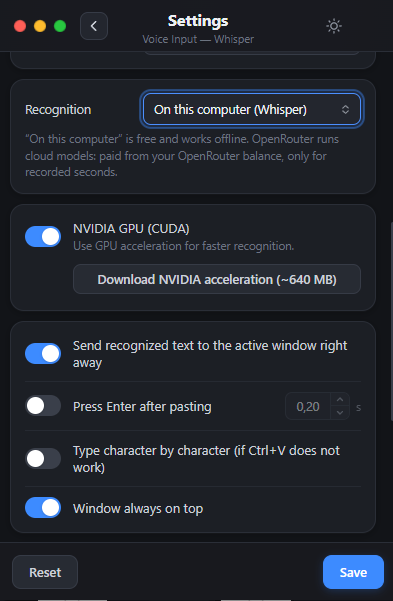
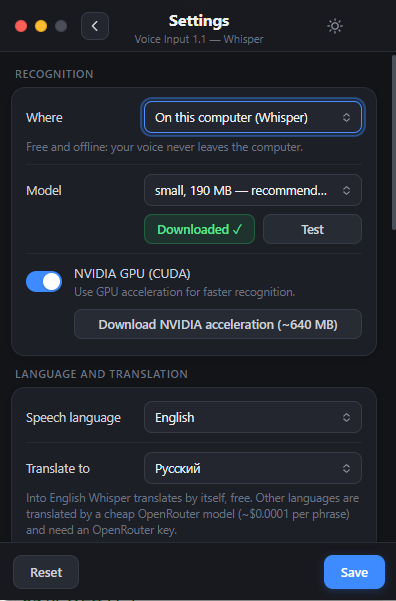
Версия 1.2: переводчик; новые скриншоты; описание и сайт

diff --git a/docs/ru/index.html b/docs/ru/index.html
@@ -3,9 +3,9 @@
 <head>
 <meta charset="utf-8">
 <meta name="viewport" content="width=device-width, initial-scale=1">
-<title>VoiceDictate — бесплатный голосовой ввод для Windows 10 и 11 (Whisper, OpenRouter)</title>
-<meta name="description" content="Бесплатный голосовой ввод для Windows 10/11: нажали F3, сказали — текст вставился в любую программу. Распознавание Whisper без интернета или облачные модели OpenRouter от $0,012 за час. Русский и английский.">
-<meta name="keywords" content="голосовой ввод windows 10, голосовой набор текста, диктовка на компьютере, распознавание речи whisper, speech to text windows, голосовой ввод касперский">
+<title>VoiceDictate — бесплатный голосовой ввод и переводчик для Windows 10 и 11 (Whisper, OpenRouter)</title>
+<meta name="description" content="Бесплатный голосовой ввод и голосовой переводчик для Windows 10/11: нажали F3, сказали — текст или его перевод вставился в любую программу. Распознавание Whisper без интернета или облачные модели OpenRouter от $0,012 за час. Русский и английский.">
+<meta name="keywords" content="голосовой ввод windows 10, голосовой переводчик, перевод речи, голосовой набор текста, диктовка на компьютере, распознавание речи whisper, speech to text windows, голосовой ввод касперский">
 <link rel="canonical" href="https://gemini1978v-beep.github.io/VoiceDictate/ru/">
 <link rel="alternate" hreflang="en" href="https://gemini1978v-beep.github.io/VoiceDictate/">
 <link rel="alternate" hreflang="ru" href="https://gemini1978v-beep.github.io/VoiceDictate/ru/">
@@ -14,7 +14,7 @@
 <meta property="og:title" content="VoiceDictate — голосовой ввод для Windows">
 <meta property="og:description" content="Нажали F3, сказали — текст появился в любой программе. Whisper без интернета или облако OpenRouter.">
 <meta property="og:url" content="https://gemini1978v-beep.github.io/VoiceDictate/ru/">
-<meta property="og:image" content="https://gemini1978v-beep.github.io/VoiceDictate/screenshots/main-light.png">
+<meta property="og:image" content="https://gemini1978v-beep.github.io/VoiceDictate/screenshots/main-dark.png">
 <meta property="og:locale" content="ru_RU">
 <meta property="og:locale:alternate" content="en_US">
 <meta name="twitter:card" content="summary_large_image">
@@ -27,11 +27,11 @@
   "alternateName": "Голосовой ввод",
   "operatingSystem": "Windows 10, Windows 11",
   "applicationCategory": "UtilitiesApplication",
-  "softwareVersion": "1.1",
+  "softwareVersion": "1.2",
   "description": "Голосовой ввод для Windows: нажали F3, сказали — текст вставился в активное окно. Распознавание Whisper без интернета или в облаке OpenRouter.",
   "url": "https://gemini1978v-beep.github.io/VoiceDictate/ru/",
   "downloadUrl": "https://github.com/gemini1978v-beep/VoiceDictate/releases/latest",
-  "screenshot": "https://gemini1978v-beep.github.io/VoiceDictate/screenshots/main-light.png",
+  "screenshot": "https://gemini1978v-beep.github.io/VoiceDictate/screenshots/main-dark.png",
   "license": "https://opensource.org/licenses/MIT",
   "inLanguage": ["ru", "en"],
   "offers": { "@type": "Offer", "price": "0", "priceCurrency": "USD" },
@@ -62,7 +62,7 @@
   <section class="hero">
     <div class="wrap">
       <div>
-        <h1>Голосовой ввод для Windows 10 и 11</h1>
+        <h1>Голосовой ввод и переводчик для Windows</h1>
         <p class="lead">Нажали <kbd>F3</kbd>, сказали, снова <kbd>F3</kbd> — и текст вставился туда, где стоит курсор: в чат, Блокнот, браузер, Word. Со знаками препинания.</p>
         <div class="cta">
           <a class="btn primary" href="https://github.com/gemini1978v-beep/VoiceDictate/releases/latest">
@@ -71,9 +71,9 @@
           </a>
           <a class="btn" href="https://github.com/gemini1978v-beep/VoiceDictate">Исходники на GitHub</a>
         </div>
-        <p class="small">Версия 1.1 · бесплатно, открытый код (MIT) · ~68 МБ · Windows 10/11 x64</p>
+        <p class="small">Версия 1.2 · бесплатно, открытый код (MIT) · ~68 МБ · Windows 10/11 x64</p>
       </div>
-      <div class="shot"><img src="../screenshots/main-light.png" width="398" height="600" alt="Главное окно VoiceDictate: нажмите F3, чтобы начать запись"></div>
+      <div class="shot"><img src="../screenshots/main-dark.png" width="397" height="600" alt="Главное окно VoiceDictate: язык речи, кнопка «Перевести на», язык перевода"></div>
     </div>
   </section>
 
@@ -104,8 +104,8 @@
         </div>
         <div class="card">
           <div class="ic"><svg viewBox="0 0 24 24" fill="none" stroke="currentColor" stroke-width="2" stroke-linecap="round" stroke-linejoin="round"><circle cx="12" cy="12" r="9"/><path d="M3 12h18M12 3a14 14 0 0 1 0 18M12 3a14 14 0 0 0 0 18"/></svg></div>
-          <h3>Много языков</h3>
-          <p>Русский, английский, украинский, немецкий, французский, испанский и другие. Интерфейс на русском и английском.</p>
+          <h3>Переводчик</h3>
+          <p>Говорите на одном языке — получаете текст на другом: кнопка «Перевести на» на главном экране. Английский — через Whisper, ещё 35 языков — через OpenRouter.</p>
         </div>
         <div class="card">
           <div class="ic"><svg viewBox="0 0 24 24" fill="none" stroke="currentColor" stroke-width="2" stroke-linecap="round" stroke-linejoin="round"><path d="M4 7h16M4 12h10M4 17h7"/></svg></div>
@@ -121,9 +121,9 @@
       <h2>Скриншоты</h2>
       <p class="sub">Главное окно и настройки, светлая и тёмная тема.</p>
       <div class="shots">
-        <figure><img src="../screenshots/main-dark.png" width="397" height="593" alt="Главное окно, тёмная тема, баланс OpenRouter" loading="lazy"><figcaption>Главное окно, тёмная тема</figcaption></figure>
-        <figure><img src="../screenshots/settings-openrouter.png" width="395" height="524" alt="Настройки: ключ OpenRouter, модель и цена за час" loading="lazy"><figcaption>OpenRouter: модель, цена за час, баланс</figcaption></figure>
-        <figure><img src="../screenshots/settings-mic.png" width="399" height="597" alt="Настройки: клавиша, модель, микрофон, запись звука" loading="lazy"><figcaption>Клавиша, микрофон, способ записи</figcaption></figure>
+        <figure><img src="../screenshots/main-dark.png" width="397" height="602" alt="Главное окно с кнопкой «Перевести на»" loading="lazy"><figcaption>Главное окно: говорите и переводите</figcaption></figure>
+        <figure><img src="../screenshots/en/settings-openrouter.png" width="399" height="601" alt="Настройки: ключ OpenRouter, модель и цена за час, баланс" loading="lazy"><figcaption>OpenRouter: модель, цена за час, баланс</figcaption></figure>
+        <figure><img src="../screenshots/en/settings-local.png" width="396" height="601" alt="Настройки: Whisper на компьютере, видеокарта, перевод" loading="lazy"><figcaption>На компьютере: Whisper, видеокарта, перевод</figcaption></figure>
       </div>
     </div>
   </section>
@@ -173,7 +173,7 @@
 
 <footer>
   <div class="wrap">
-    <span>VoiceDictate 1.1 · лицензия MIT · Ushakov Vitaly</span>
+    <span>VoiceDictate 1.2 · лицензия MIT · Ushakov Vitaly</span>
     <a href="https://github.com/gemini1978v-beep/VoiceDictate">GitHub</a>
     <a href="https://github.com/gemini1978v-beep/VoiceDictate/releases">Все версии</a>
     <a href="https://github.com/gemini1978v-beep/VoiceDictate/issues">Сообщить о проблеме</a>

diff --git a/docs/index.html b/docs/index.html
@@ -3,9 +3,9 @@
 <head>
 <meta charset="utf-8">
 <meta name="viewport" content="width=device-width, initial-scale=1">
-<title>VoiceDictate — free voice typing for Windows 10 and 11 (Whisper, OpenRouter)</title>
-<meta name="description" content="Free voice typing for Windows 10/11: press F3, speak, and the text is pasted into any app. Offline Whisper speech recognition or cheap OpenRouter cloud models from $0.012 per hour. English and Russian.">
-<meta name="keywords" content="voice typing windows, speech to text windows 10, dictation software, whisper windows, offline speech recognition, openrouter transcription">
+<title>VoiceDictate — free voice typing and translator for Windows 10 and 11 (Whisper, OpenRouter)</title>
+<meta name="description" content="Free voice typing and voice translator for Windows 10/11: press F3, speak, and the text or its translation is pasted into any app. Offline Whisper speech recognition or cheap OpenRouter cloud models from $0.012 per hour. English and Russian.">
+<meta name="keywords" content="voice typing windows, voice translator windows, speech translation, speech to text windows 10, dictation software, whisper windows, offline speech recognition, openrouter transcription">
 <link rel="canonical" href="https://gemini1978v-beep.github.io/VoiceDictate/">
 <link rel="alternate" hreflang="en" href="https://gemini1978v-beep.github.io/VoiceDictate/">
 <link rel="alternate" hreflang="ru" href="https://gemini1978v-beep.github.io/VoiceDictate/ru/">
@@ -14,7 +14,7 @@
 <meta property="og:title" content="VoiceDictate — voice typing for Windows">
 <meta property="og:description" content="Press F3, speak, and the text appears in any app. Offline Whisper or OpenRouter cloud.">
 <meta property="og:url" content="https://gemini1978v-beep.github.io/VoiceDictate/">
-<meta property="og:image" content="https://gemini1978v-beep.github.io/VoiceDictate/screenshots/en/main-light.png">
+<meta property="og:image" content="https://gemini1978v-beep.github.io/VoiceDictate/screenshots/en/main-dark.png">
 <meta property="og:locale" content="en_US">
 <meta property="og:locale:alternate" content="ru_RU">
 <meta name="twitter:card" content="summary_large_image">
@@ -27,11 +27,11 @@
   "alternateName": "Голосовой ввод",
   "operatingSystem": "Windows 10, Windows 11",
   "applicationCategory": "UtilitiesApplication",
-  "softwareVersion": "1.1",
+  "softwareVersion": "1.2",
   "description": "Voice typing for Windows: press F3, speak, and the text is pasted into the active window. Offline Whisper or OpenRouter cloud recognition.",
   "url": "https://gemini1978v-beep.github.io/VoiceDictate/",
   "downloadUrl": "https://github.com/gemini1978v-beep/VoiceDictate/releases/latest",
-  "screenshot": "https://gemini1978v-beep.github.io/VoiceDictate/screenshots/en/main-light.png",
+  "screenshot": "https://gemini1978v-beep.github.io/VoiceDictate/screenshots/en/main-dark.png",
   "license": "https://opensource.org/licenses/MIT",
   "inLanguage": ["en", "ru"],
   "offers": { "@type": "Offer", "price": "0", "priceCurrency": "USD" },
@@ -62,7 +62,7 @@
   <section class="hero">
     <div class="wrap">
       <div>
-        <h1>Voice typing for Windows 10 and 11</h1>
+        <h1>Voice typing and translator for Windows</h1>
         <p class="lead">Press <kbd>F3</kbd>, speak, press <kbd>F3</kbd> again — and the text is pasted where your cursor is: a chat, Notepad, a browser, Word. With punctuation.</p>
         <div class="cta">
           <a class="btn primary" href="https://github.com/gemini1978v-beep/VoiceDictate/releases/latest">
@@ -71,9 +71,9 @@
           </a>
           <a class="btn" href="https://github.com/gemini1978v-beep/VoiceDictate">Source code on GitHub</a>
         </div>
-        <p class="small">Version 1.1 · free and open source (MIT) · ~68 MB · Windows 10/11 x64</p>
+        <p class="small">Version 1.2 · free and open source (MIT) · ~68 MB · Windows 10/11 x64</p>
       </div>
-      <div class="shot"><img src="screenshots/en/main-light.png" width="395" height="590" alt="VoiceDictate main window: press F3 to start recording"></div>
+      <div class="shot"><img src="screenshots/en/main-dark.png" width="397" height="600" alt="VoiceDictate main window: speech language, Translate to button, target language"></div>
     </div>
   </section>
 
@@ -104,8 +104,8 @@
         </div>
         <div class="card">
           <div class="ic"><svg viewBox="0 0 24 24" fill="none" stroke="currentColor" stroke-width="2" stroke-linecap="round" stroke-linejoin="round"><circle cx="12" cy="12" r="9"/><path d="M3 12h18M12 3a14 14 0 0 1 0 18M12 3a14 14 0 0 0 0 18"/></svg></div>
-          <h3>Many languages</h3>
-          <p>English, Russian, Ukrainian, German, French, Spanish and more. English and Russian interface.</p>
+          <h3>Translator</h3>
+          <p>Speak one language, get text in another: the “Translate to” button on the main screen. English via Whisper, 35 more languages via OpenRouter.</p>
         </div>
         <div class="card">
           <div class="ic"><svg viewBox="0 0 24 24" fill="none" stroke="currentColor" stroke-width="2" stroke-linecap="round" stroke-linejoin="round"><path d="M4 7h16M4 12h10M4 17h7"/></svg></div>
@@ -121,9 +121,9 @@
       <h2>Screenshots</h2>
       <p class="sub">The main window and settings, light and dark themes.</p>
       <div class="shots">
-        <figure><img src="screenshots/en/main-dark.png" width="398" height="594" alt="Main window, dark theme, OpenRouter balance" loading="lazy"><figcaption>Main window, dark theme</figcaption></figure>
-        <figure><img src="screenshots/en/settings-openrouter.png" width="397" height="600" alt="Settings: OpenRouter key, model and price per hour" loading="lazy"><figcaption>OpenRouter: model, price per hour, balance</figcaption></figure>
-        <figure><img src="screenshots/en/settings-mic.png" width="399" height="602" alt="Settings: hotkey, model, microphone, audio capture, speech language" loading="lazy"><figcaption>Hotkey, microphone, speech language</figcaption></figure>
+        <figure><img src="screenshots/en/main-dark.png" width="394" height="596" alt="Main window with the Translate to button" loading="lazy"><figcaption>Main window: speak and translate</figcaption></figure>
+        <figure><img src="screenshots/en/settings-openrouter.png" width="399" height="601" alt="Settings: OpenRouter key, model and price per hour, balance" loading="lazy"><figcaption>OpenRouter: model, price per hour, balance</figcaption></figure>
+        <figure><img src="screenshots/en/settings-local.png" width="396" height="601" alt="Settings: local Whisper, NVIDIA GPU, language and translation" loading="lazy"><figcaption>On your computer: Whisper, GPU, translation</figcaption></figure>
       </div>
     </div>
   </section>
@@ -173,7 +173,7 @@
 
 <footer>
   <div class="wrap">
-    <span>VoiceDictate 1.1 · MIT License · Ushakov Vitaly</span>
+    <span>VoiceDictate 1.2 · MIT License · Ushakov Vitaly</span>
     <a href="https://github.com/gemini1978v-beep/VoiceDictate">GitHub</a>
     <a href="https://github.com/gemini1978v-beep/VoiceDictate/releases">Releases</a>
     <a href="https://github.com/gemini1978v-beep/VoiceDictate/issues">Report a problem</a>

diff --git a/README.md b/README.md
@@ -1,8 +1,8 @@
-# VoiceDictate — голосовой ввод для Windows 10 и 11
+# VoiceDictate — голосовой ввод и переводчик для Windows 10 и 11
 
 **Русский** · [English](README.en.md)
 
-**Версия 1.1** — [скачать](https://github.com/gemini1978v-beep/VoiceDictate/releases/latest) · [что нового](https://github.com/gemini1978v-beep/VoiceDictate/releases/tag/v1.1) · [сайт](https://gemini1978v-beep.github.io/VoiceDictate/ru/)
+**Версия 1.2** — [скачать](https://github.com/gemini1978v-beep/VoiceDictate/releases/latest) · [что нового](https://github.com/gemini1978v-beep/VoiceDictate/releases/tag/v1.2) · [сайт](https://gemini1978v-beep.github.io/VoiceDictate/ru/)
 
 Нажали **F3**, сказали фразу, снова нажали **F3**, и текст сам вставился туда, где стоит курсор:
 в чат, Блокнот, браузер, Word, мессенджер. Хорошо понимает русский, расставляет знаки препинания.
@@ -17,6 +17,9 @@
 - **Три способа записи звука**: напрямую, через встроенный веб-движок или через вкладку
   обычного браузера. Последний выручает, если корпоративный антивирус (например, Касперский)
   не даёт программам доступ к микрофону.
+- **Переводчик:** говорите на одном языке — в окно вставляется перевод на другой. Кнопка
+  «Перевести на» и выбор языков прямо на главном экране. На английский переводит сам Whisper
+  (на компьютере бесплатно), на 35 других языков — недорогая модель OpenRouter (~$0,0001 за фразу).
 - **Распознавание аудио- и видеофайлов** в текст `.txt` и субтитры `.srt`.
 - Интерфейс на русском и английском (переключатель RU/EN на главном экране),
   распознаёт русский, английский и другие языки.
@@ -27,16 +30,16 @@
 ## Как выглядит
 
 <p>
-  <img src="docs/screenshots/main-light.png" width="260" alt="Главное окно, светлая тема">
-  <img src="docs/screenshots/main-dark.png" width="260" alt="Главное окно, тёмная тема">
+  <img src="docs/screenshots/main-dark.png" width="260" alt="Главное окно: язык речи, кнопка «Перевести на», язык перевода">
+  <img src="docs/screenshots/en/main-dark.png" width="260" alt="Главное окно на английском">
 </p>
 
-Настройки: способ записи звука, распознавание в облаке OpenRouter с ценой за час, распознавание на компьютере с ускорением NVIDIA.
+Настройки показывают только выбранный режим: распознавание на компьютере (модель Whisper, видеокарта NVIDIA)
+или в облаке OpenRouter (ключ, модель с ценой за час, баланс).
 
 <p>
-  <img src="docs/screenshots/settings-mic.png" width="260" alt="Настройки: клавиша, модель, микрофон, запись звука">
-  <img src="docs/screenshots/settings-openrouter.png" width="260" alt="Настройки: OpenRouter, ключ и модель с ценой">
-  <img src="docs/screenshots/settings-local.png" width="260" alt="Настройки: распознавание на компьютере и видеокарта NVIDIA">
+  <img src="docs/screenshots/en/settings-local.png" width="260" alt="Настройки: распознавание на компьютере, язык и перевод">
+  <img src="docs/screenshots/en/settings-openrouter.png" width="260" alt="Настройки: OpenRouter, ключ, модель с ценой, баланс">
 </p>
 
 ## Быстрый старт
@@ -205,6 +208,9 @@ https://go.microsoft.com/fwlink/p/?LinkId=2124703 .
 - **Микрофон** — какой микрофон записывать.
 - **Язык речи** — на каком языке вы говорите: русский, английский, украинский и другие
   или «Определять сам». В `settings.ini` — `language = ru / en / auto…`.
+- **Перевести на** — переводить распознанный текст на выбранный язык (то же, что кнопка на главном
+  экране). На английский переводит Whisper, на остальные языки — модель OpenRouter, нужен ключ.
+  В `settings.ini` — `translate = yes / no`, `translate_to`, `translate_model` (по умолчанию `openai/gpt-4o-mini`).
 - **Запись звука** — откуда брать звук, если антивирус (например, Касперский) не даёт его программе:
   - «Напрямую» — как раньше;
   - «Через веб» — микрофон открывает встроенный в окно движок Edge;

diff --git a/README.en.md b/README.en.md
@@ -1,8 +1,8 @@
-# VoiceDictate — voice typing for Windows 10 and 11
+# VoiceDictate — voice typing and translator for Windows 10 and 11
 
 [Русский](README.md) · **English**
 
-**Version 1.1** — [download](https://github.com/gemini1978v-beep/VoiceDictate/releases/latest) · [what's new](https://github.com/gemini1978v-beep/VoiceDictate/releases/tag/v1.1) · [website](https://gemini1978v-beep.github.io/VoiceDictate/)
+**Version 1.2** — [download](https://github.com/gemini1978v-beep/VoiceDictate/releases/latest) · [what's new](https://github.com/gemini1978v-beep/VoiceDictate/releases/tag/v1.2) · [website](https://gemini1978v-beep.github.io/VoiceDictate/)
 
 Press **F3**, say a phrase, press **F3** again, and the text is pasted wherever your cursor is:
 a chat, Notepad, a browser, Word, a messenger. Handles punctuation, works great with English,
@@ -18,6 +18,9 @@ Russian and many other languages.
 - **Three ways to capture audio**: direct, through the built-in web engine, or through a tab
   in your regular browser. The last one helps when a corporate antivirus (e.g. Kaspersky)
   blocks microphone access for programs.
+- **Translator:** speak one language — a translation into another is pasted. The “Translate to”
+  button and language lists are right on the main screen. Whisper translates into English by itself
+  (free on your computer); 35 other languages are translated by a cheap OpenRouter model (~$0.0001 per phrase).
 - **Transcribe audio and video files** to `.txt` text and `.srt` subtitles.
 - English and Russian interface (RU/EN switch on the main screen); recognizes English,
   Russian and other languages.
@@ -28,18 +31,17 @@ Windows voice typing (Win+H) is not needed, so everything works on **Windows 10*
 ## Screenshots
 
 <p>
-  <img src="docs/screenshots/en/main-light.png" width="260" alt="Main window, light theme">
-  <img src="docs/screenshots/en/main-dark.png" width="260" alt="Main window, dark theme">
+  <img src="docs/screenshots/en/main-dark.png" width="260" alt="Main window: speech language, Translate to button, target language">
+  <img src="docs/screenshots/main-dark.png" width="260" alt="Main window in Russian">
 </p>
 
-Settings: audio capture method, cloud recognition with OpenRouter and price per hour, local recognition with NVIDIA acceleration.
+Settings show only the selected mode: on your computer (Whisper model, NVIDIA GPU)
+or in the OpenRouter cloud (key, model with price per hour, balance).
 
 <p>
-  <img src="docs/screenshots/en/settings-mic.png" width="260" alt="Settings: hotkey, model, microphone, audio capture">
-  <img src="docs/screenshots/en/settings-openrouter.png" width="260" alt="Settings: OpenRouter, key and model with price">
-  <img src="docs/screenshots/en/settings-local.png" width="260" alt="Settings: local recognition and NVIDIA GPU">
+  <img src="docs/screenshots/en/settings-local.png" width="260" alt="Settings: local recognition, language and translation">
+  <img src="docs/screenshots/en/settings-openrouter.png" width="260" alt="Settings: OpenRouter key, model with price, balance">
 </p>
-
 
 ## Quick start
 
@@ -217,6 +219,9 @@ try large-v3-turbo.
   In `settings.ini`: `mic_source = direct / web / browser`.
 - **Speech language** — the language you speak: English, Russian, Ukrainian and others,
   or “Auto-detect”. In `settings.ini`: `language = en / ru / auto…`.
+- **Translate to** — translate the recognized text into the selected language (same as the button on the
+  main screen). Whisper translates into English; other languages use an OpenRouter model and need a key.
+  In `settings.ini`: `translate = yes / no`, `translate_to`, `translate_model` (default `openai/gpt-4o-mini`).
 - **Recognition** — “On this computer (Whisper)”, free and offline, or “OpenRouter (cloud)”:
   the recording is sent to a cloud model via [OpenRouter](https://openrouter.ai) and paid from
   your OpenRouter balance per second of audio. An API key is required (the “Get a key” button).
